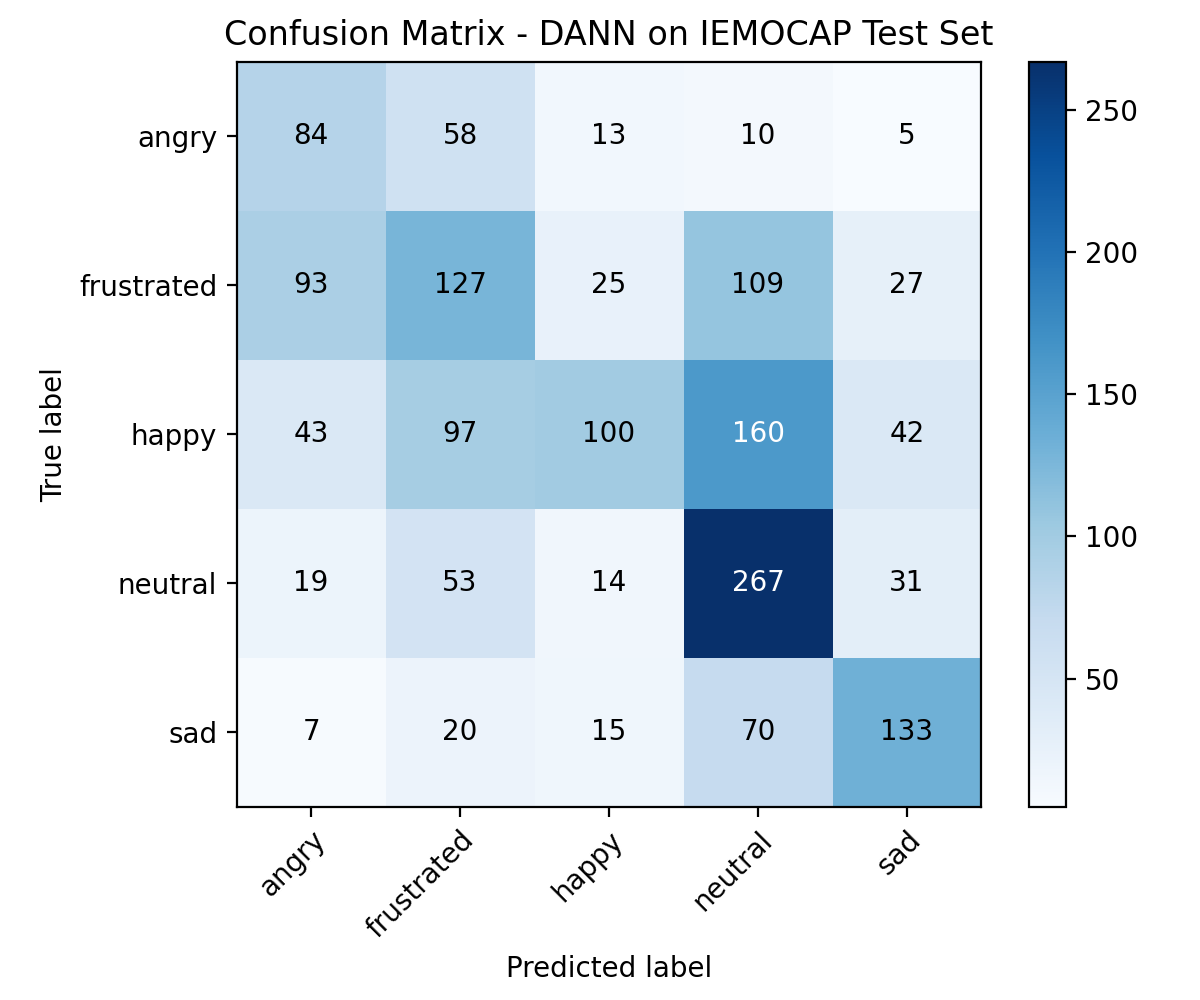
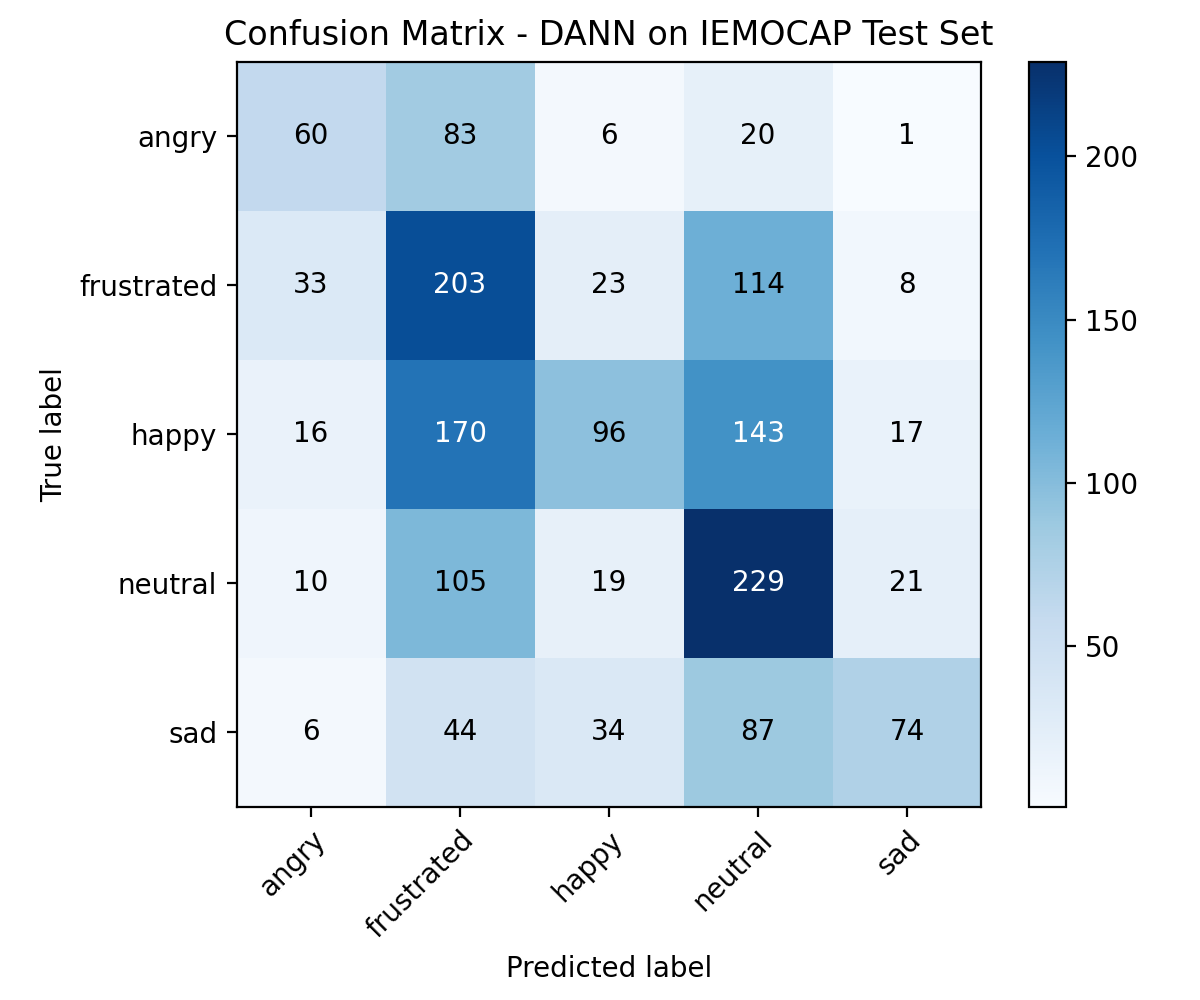
Added Attention Layer to Baseline DANN model

diff --git a/src/dann/model_dann.py b/src/dann/model_dann.py
@@ -66,6 +66,21 @@ class DANNEmotionModel(nn.Module):
             bidirectional=True,
         )
 
+        # Attention layer before temporal pooling
+        self.attention = nn.Sequential(
+            nn.Linear(self.lstm_hidden * 2, self.lstm_hidden * 2),
+            nn.Tanh(),
+            nn.Dropout(0.1),  # Slight dropout for regularization
+            nn.Linear(self.lstm_hidden * 2, 1),
+        )
+        
+        # Initialize attention to be close to uniform (mean pooling)
+        # This helps it start similar to the baseline and learn from there
+        for module in self.attention:
+            if isinstance(module, nn.Linear):
+                nn.init.xavier_uniform_(module.weight, gain=0.1)  # Small gain for near-uniform start
+                nn.init.constant_(module.bias, 0.0)
+
         # Gradient reversal layer for domain adaptation
         self.grl = GradientReversal()
 
@@ -106,8 +121,22 @@ class DANNEmotionModel(nn.Module):
         # BiLSTM (same as EmotionCRNN)
         lstm_out, _ = self.lstm(x)               # [B, T, 2*hidden]
 
-        # Temporal pooling: mean over time (same as EmotionCRNN)
-        x = lstm_out.mean(dim=1)                 # [B, 2*hidden]
+        # Attention mechanism before temporal pooling
+        # Compute attention weights for each time step
+        attn_weights = self.attention(lstm_out)  # [B, T, 1]
+        attn_weights = attn_weights.squeeze(-1)  # [B, T]
+        attn_weights = torch.softmax(attn_weights, dim=1)  # [B, T]
+        attn_weights = attn_weights.unsqueeze(-1)  # [B, T, 1]
+        
+        # Weighted sum over time dimension (attention-based pooling)
+        attn_pooled = (lstm_out * attn_weights).sum(dim=1)  # [B, 2*hidden]
+        
+        # Residual connection with mean pooling (helps maintain baseline performance)
+        mean_pooled = lstm_out.mean(dim=1)  # [B, 2*hidden]
+        
+        # Combine attention and mean pooling (weighted combination)
+        # Start with 50-50, let the model learn the optimal mix
+        x = 0.5 * attn_pooled + 0.5 * mean_pooled  # [B, 2*hidden]
 
         # Emotion classification branch (same as EmotionCRNN)
         emotion_logits = self.classifier(x)      # [B, num_classes]

diff --git a/src/dann/train_dann.py b/src/dann/train_dann.py
@@ -4,6 +4,9 @@ import torch.nn as nn
 from torch.optim import Adam
 import math
 
+# Fix OpenMP warning on Windows
+os.environ["KMP_DUPLICATE_LIB_OK"] = "TRUE"
+
 # Use absolute imports so the src package resolves correctly.
 from src.data.iemocap_dataset_loader import load_iemocap_metadata, split_iemocap_by_sessions
 from src.baseline.dataloaders import create_dataloaders
@@ -66,11 +69,12 @@ def main():
     )
 
     # ---------- DANN loaders (source: IEMOCAP train, target: RAVDESS) ----------
+    # num_workers=0 for Windows compatibility (avoids OpenMP conflicts)
     src_loader, tgt_loader = create_dann_loaders(
         train_samples,  # Pre-split IEMOCAP training samples (Session1-3)
         RAVDESS_BASE,
         batch_size=BATCH_SIZE,
-        num_workers=4,
+        num_workers=0,
     )
 
     print("Source DANN batches:", len(src_loader))

diff --git a/README.md b/README.md
@@ -37,7 +37,8 @@ This repository contains a comprehensive deep learning framework for speech emot
 
 ### 2. DANN CRNN (`src/dann/`)
 
-- **Architecture**: Same as baseline + Gradient Reversal Layer + Domain classifier head
+- **Architecture**: Same as baseline + **Attention mechanism** (before temporal pooling) + Gradient Reversal Layer + Domain classifier head
+- **Attention Layer**: Self-attention mechanism that computes weighted aggregation over time steps, combined with mean pooling via residual connection (50-50 mix) for stable training
 - **Domain Adaptation**: Gradient reversal with sigmoid-like alpha scheduling (max alpha=0.7)
 - **Training**: Combined classification loss (source domain) + domain loss (lambda=0.5)
 
@@ -224,14 +225,15 @@ python -m src.wav2vec.eval_ravdess_wav2vec_dann
 | Model               | IEMOCAP Test Accuracy | RAVDESS Accuracy | Parameters |
 | ------------------- | --------------------- | ---------------- | ---------- |
 | **Baseline CRNN**   | ~44%                  | ~14%             | ~2.2M      |
-| **DANN CRNN**       | ~42%                  | ~24%             | ~2.2M      |
+| **DANN CRNN**       | ~41%                  | ~27%             | ~2.2M      |
 | **Wav2Vec2 + DANN** | ~42%                  | ~27%             | ~95M       |
 
 ### Key Observations
 
 - **Domain Shift**: Baseline model shows significant performance drop on RAVDESS (~14% vs ~44% on IEMOCAP)
-- **Domain Adaptation**: DANN improves cross-domain performance by ~10% on RAVDESS while maintaining similar IEMOCAP accuracy
-- **Pre-trained Models**: Wav2Vec2 + DANN shows the best cross-domain performance (~27% on RAVDESS) but requires more computational resources
+- **Domain Adaptation**: DANN improves cross-domain performance by ~13% on RAVDESS (~27% vs ~14%) while maintaining similar IEMOCAP accuracy (~41%)
+- **Attention Mechanism**: The attention layer in DANN CRNN helps improve cross-domain generalization, with residual connection ensuring stable training
+- **Pre-trained Models**: Wav2Vec2 + DANN matches DANN CRNN cross-domain performance (~27% on RAVDESS) but requires more computational resources
 
 Confusion matrices for all evaluations are saved in the `results/` directory.
 
